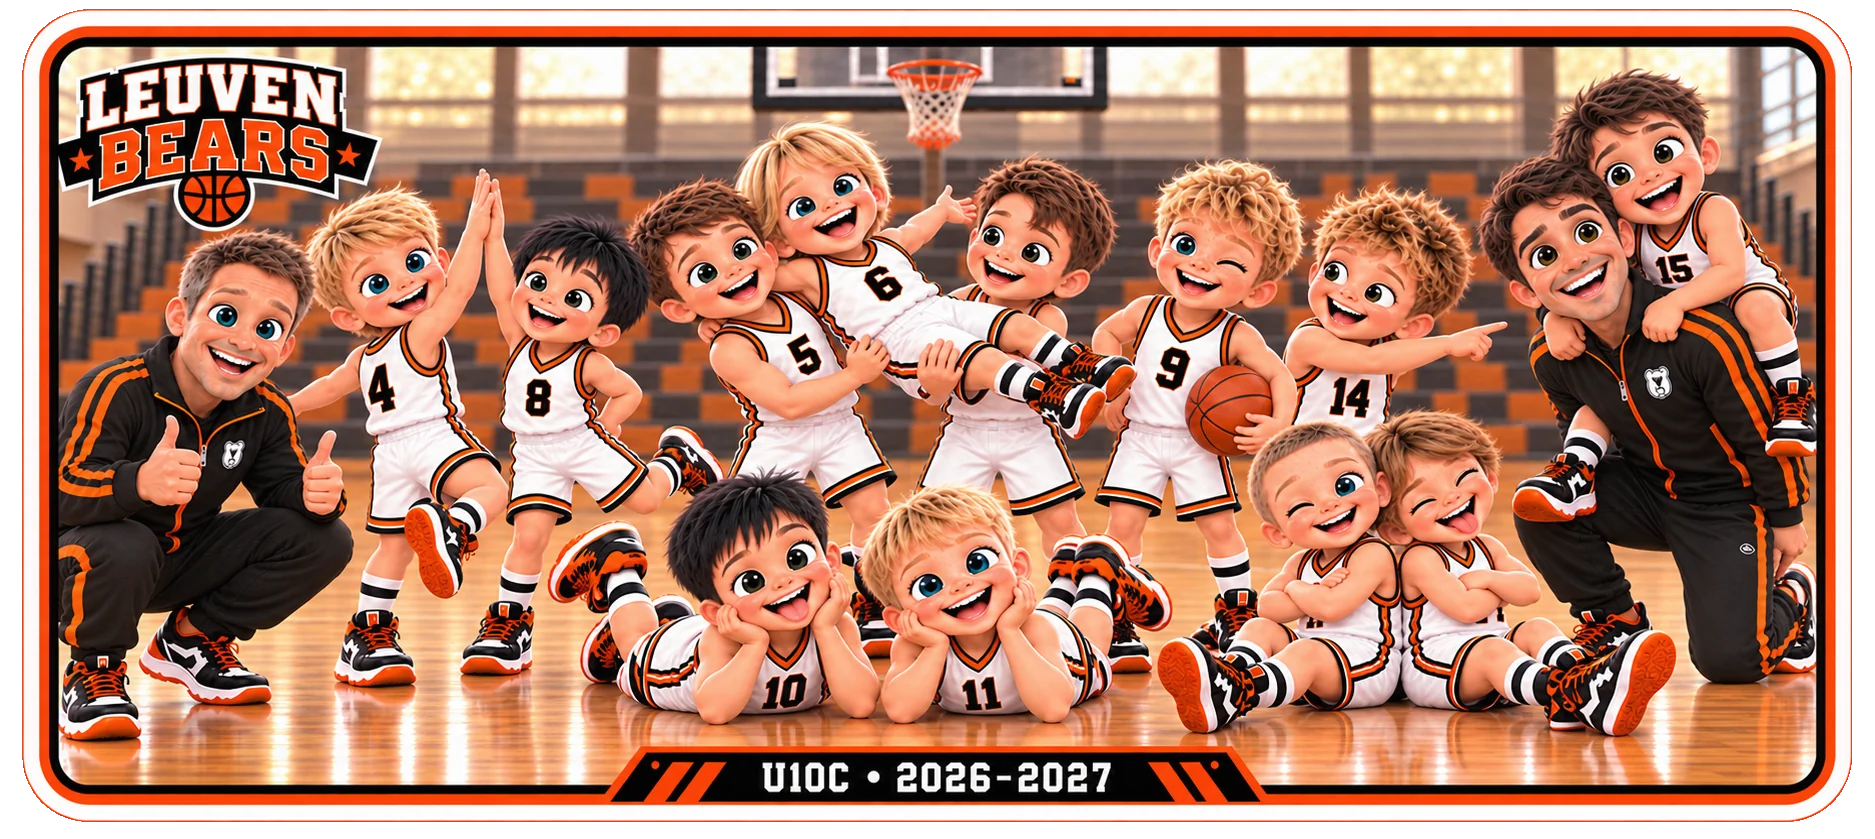
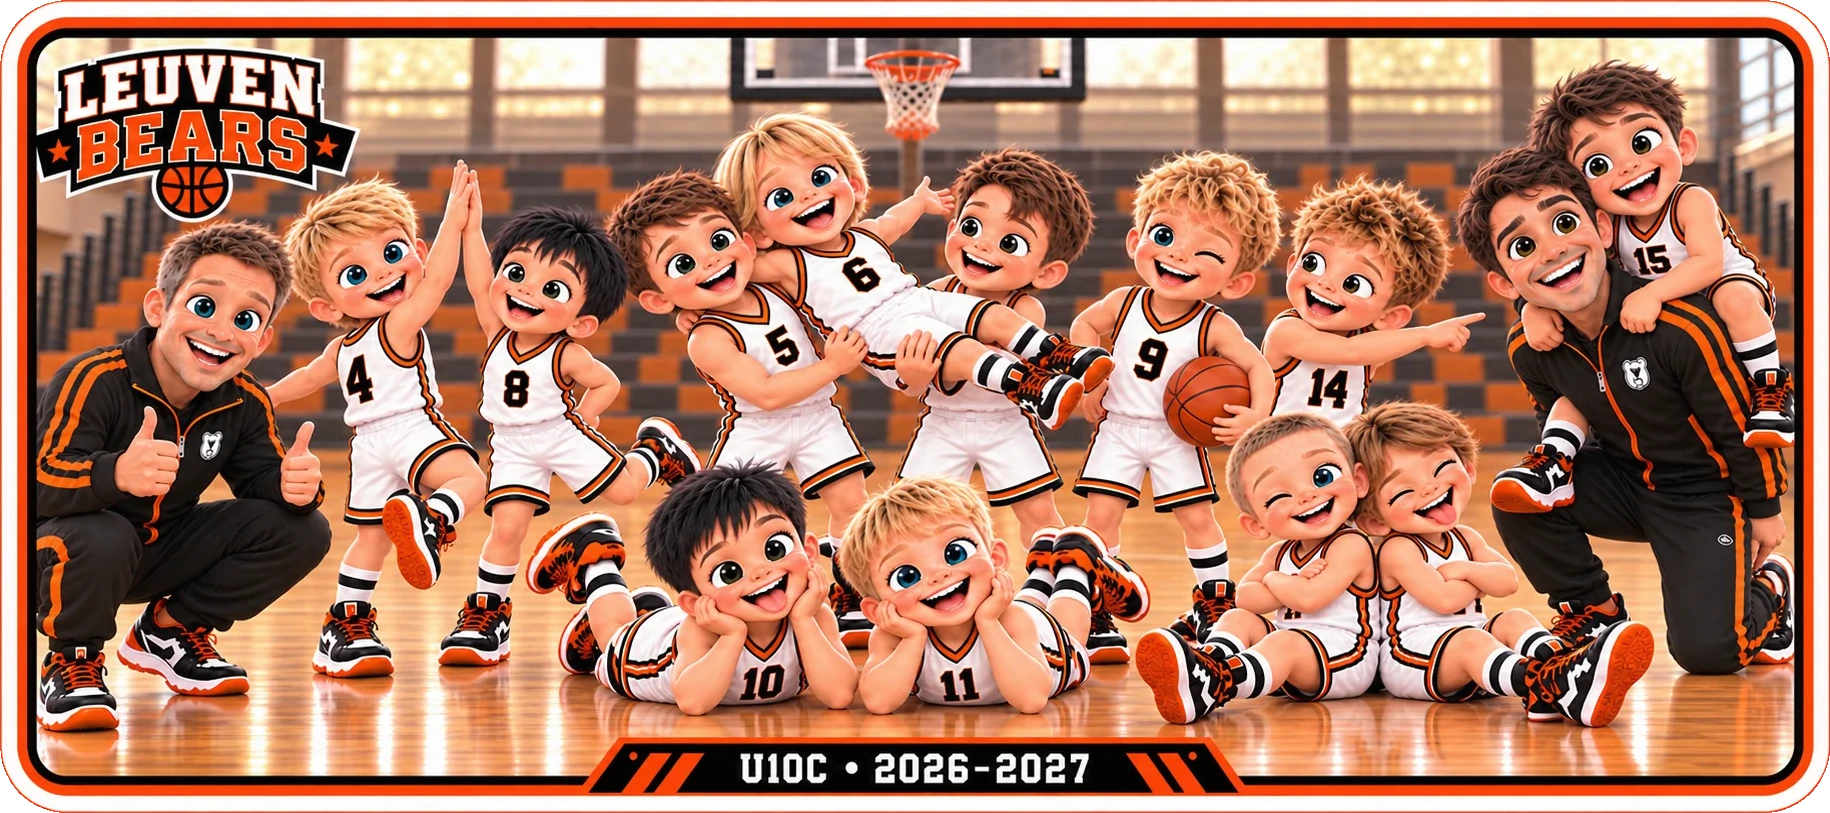
Point Spelers groepsfoto at the stable groep-u10c-2026.webp path.
Spelers.tsx and team.ts do not reference the photo; StickerAlbum now
loads the main-tree filename. Hero stays an identical copy. Home is unchanged.

diff --git a/src/components/StickerAlbum.tsx b/src/components/StickerAlbum.tsx
@@ -321,7 +321,7 @@ export function StickerAlbum({ players, staff }: StickerAlbumProps) {
 
         <article className="sticker-slot sticker-slot--group">
           <img
-            src="/stickers/groep-u10c-2026-hero.webp?v=20260920b"
+            src="/stickers/groep-u10c-2026.webp?v=20260920c"
             alt={`Leuven Bears U10C groepsfoto ${team.season}`}
             width={1830}
             height={813}
